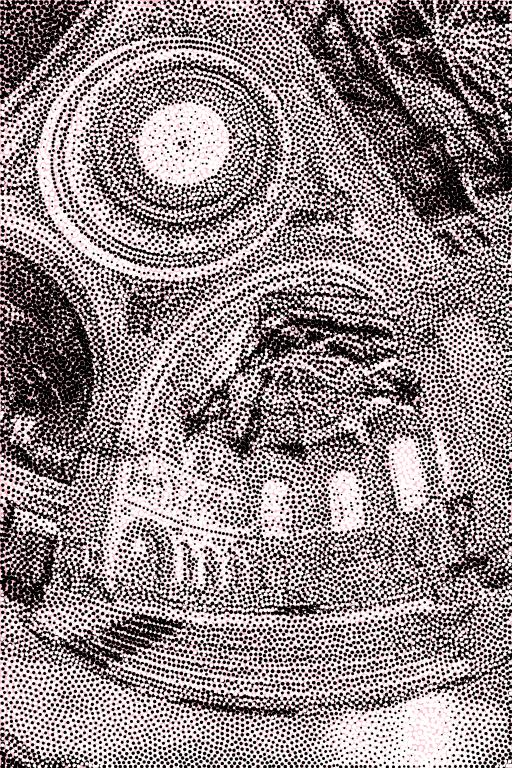
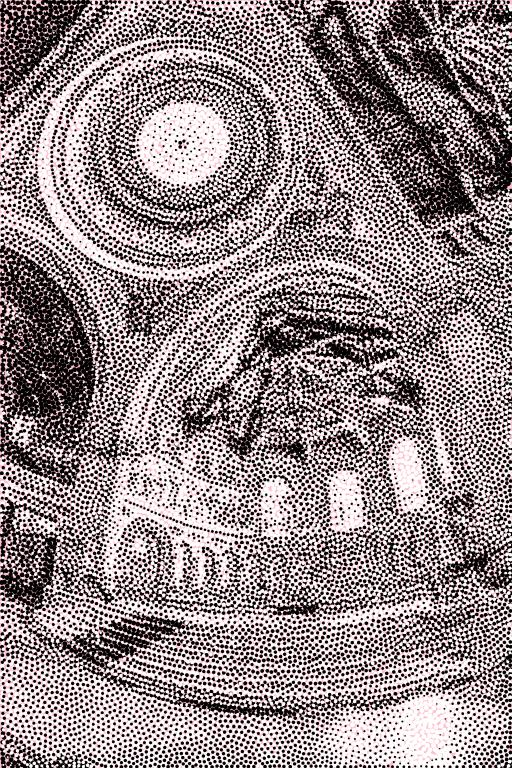
get gap mask

diff --git a/MLBG/src/mlbg.cpp b/MLBG/src/mlbg.cpp
@@ -151,6 +151,78 @@ std::vector<Stipple> MLBG::stippling(Canvas *m_canvas, MLBG *m_mlbg, bool isVoro
     return total_stipples;
 }
 
+std::vector<Stipple> MLBG::filling(std::vector<Stipple> foregroundStipples, Canvas *m_canvas, MLBG *m_mlbg)
+{
+    std::cout << "================= Begin filling ==================" << std::endl;
+
+    for (int i = 0; i < foregroundStipples.size(); i++) {
+        foregroundStipples[i].color = Qt::white;
+    }
+
+    QImage newImage = m_mlbg->paintBG(m_canvas, foregroundStipples, 0);
+
+    // stippling iteration
+    int num_split = 0;
+    int num_merge = 0;
+//    for (int i = 0; i < settings.max_iteration; i++)
+//    {
+//        draw d;
+//        std::cout << "Iteration: " << i << std::endl;
+
+//        // cells
+//        std::vector<Cell> voronoi_cells = generate_voronoi_cells(foregroundStipples, d, false);
+//        std::cout << "Current number of points: " << foregroundStipples.size() << std::endl;
+
+//        // current hysteresis
+//        float hysteresis = settings.hysteresis + i * settings.hysteresis_delta;
+
+//        foregroundStipples.clear();
+//        for (const auto &cell : voronoi_cells)
+//        {
+//            float point_size = 1.0f;
+
+//            if (cell.total_density < calculate_lower_density_bound(point_size, hysteresis) || cell.area == 0.0f) {// merge
+//                num_merge++;
+//                d.drawPoints(cell.centroid.x() * m_size.width(), cell.centroid.y() * m_size.height(), Qt::black);
+//                d.drawX(cell.centroid.x() * m_size.width(), cell.centroid.y() * m_size.height(), Qt::red);
+//            }
+//            else if (cell.total_density < calculate_upper_density_bound(point_size, hysteresis)) {// keep
+//                stipples.push_back({cell.centroid, point_size, Qt::black});
+//                d.drawPoints(cell.centroid.x() * m_size.width(), cell.centroid.y() * m_size.height(), Qt::black);
+//            }
+//            else // split
+//            {
+//                num_split++;
+//                split_cell(foregroundStipples, cell, point_size, Qt::red, false);
+//                d.drawPoints(cell.centroid.x() * m_size.width(), cell.centroid.y() * m_size.height(), Qt::black);
+//                auto last = stipples.back();
+//                auto secondLast = stipples[stipples.size() - 2];
+//                d.drawPoints(last.pos.x() * m_size.width(), last.pos.y() * m_size.height(), Qt::green);
+//                d.drawPoints(secondLast.pos.x() * m_size.width(), secondLast.pos.y() * m_size.height(), Qt::green);
+//            }
+//        }
+
+//        if (num_split == 0 && num_merge == 0)
+//            break;
+//        num_split = 0;
+//        num_merge = 0;
+
+//        if (isVoronoi == true) {
+//            d.endPaint(i, m_canvas);
+//        }
+//        else
+//        {
+//            m_wlbg->paint(m_canvas, stipples, i);
+//        }
+
+
+//        // Handle other events, allowing GUI updates
+//        QCoreApplication::processEvents();
+//    }
+
+    return foregroundStipples;
+}
+
 
 std::vector<Cell> MLBG::generate_voronoi_cells(std::vector<Stipple> points, std::vector<int> &indices, draw &d, bool inverse)
 {

diff --git a/MLBG/src/wlbg.cpp b/MLBG/src/wlbg.cpp
@@ -125,15 +125,45 @@ void WLBG::paint(Canvas *m_canvas, std::vector<Stipple> points, int iteration)
 //    w.resize(1200, 1200);
 
     m_canvas->displayImage(image); // Update the canvas display
-//    emit m_canvas->imageUpdated(m_canvas, image);
-
-    // Now schedule the displayImage call on the main thread
-//    QMetaObject::invokeMethod(m_canvas, "displayImage", Qt::QueuedConnection,
-//                              Q_ARG(QImage, image));
-
 
     // Save the image
     image.save(filePath);
+}
+
+QImage WLBG::paintBG(Canvas *m_canvas, std::vector<Stipple> points, int iteration)
+{
+    std::cout << "Start Painting" << std::endl;
+    //    QSize imageSize(1200, 1000); // Set your desired image size
+    QString filePath = settings.output_path; // Set your desired file path
+
+    QImage image(m_size,  QImage::Format_RGBX8888);
+    image.fill(Qt::black); // Fill the background
+
+    QPainter painter(&image);
+    painter.setRenderHint(QPainter::Antialiasing); // Optional: for smoother edges
+    painter.setPen(Qt::NoPen); // No border
+
+    // Draw each stipple
+    // #pragma omp parallel for
+    for (const auto& stipple : points)
+    {
+        QPointF center(stipple.pos.x() * m_size.width(), stipple.pos.y() * m_size.height());
+        qreal radius = stipple.size / 2.0; // Assuming size is the diameter
+
+        // Set brush and pen for this stipple
+        painter.setBrush(QBrush(stipple.color));
+
+        // Draw the stipple
+        painter.drawEllipse(center, radius, radius);
+    }
+
+    //    w.resize(1200, 1200);
+
+    m_canvas->displayImage(image); // Update the canvas display
+
+    // Save the image
+//    image.save(filePath);
+    return image;
 }
 
 // Index Map

diff --git a/MLBG/src/mainwindow.cpp b/MLBG/src/mainwindow.cpp
@@ -65,6 +65,7 @@ MainWindow::MainWindow()
     addPushButton(layout, "Draw Voronoi Diagram", &MainWindow::onDrawVoronoiButtonClick);
     addPushButton(layout, "Multiple Stippling", &MainWindow::onMLBGButtonClick);
 //    addPushButton(layout, "Save Image", &MainWindow::onSaveButtonClick);
+    addPushButton(layout, "Fill Background", &MainWindow::onFillButtonClick);
 }
 
 
@@ -174,6 +175,13 @@ void  MainWindow::onMLBGButtonClick() {
     std::vector<Stipple> stipples = m_mlbg.stippling(m_canvas, &m_mlbg, false);
 
 }
+
+void MainWindow::onFillButtonClick() {
+    MLBG m_mlbg = MLBG();
+    std::vector<Stipple> stipples = m_mlbg.stippling(m_canvas, &m_mlbg, false);
+    std::vector<Stipple> newstipples = m_mlbg.filling(stipples, m_canvas, &m_mlbg);
+}
+
 void MainWindow::onSaveButtonClick() {
     // Get new image path selected by user
     QString file = QFileDialog::getSaveFileName(this, tr("Save Image"), QDir::currentPath(), tr("Image Files (*.png *.jpg *.jpeg)"));

diff --git a/MLBG/src/wlbg.h b/MLBG/src/wlbg.h
@@ -71,6 +71,7 @@ public:
     WLBG();
     std::vector<Stipple> stippling(Canvas *m_canvas, WLBG *wlbg, bool isVoronoi);
     void paint(Canvas *m_canvas, std::vector<Stipple> points, int iteration);
+    QImage paintBG(Canvas *m_canvas, std::vector<Stipple> points, int iteration);
 
     // stipples
     // std::pair<std::vector<Stipple>, std::vector<Stipple> > init_stipples();

diff --git a/MLBG/src/mlbg.h b/MLBG/src/mlbg.h
@@ -2,6 +2,7 @@
 #define MLBG_H
 
 #include "src/wlbg.h"
+#include <unordered_map>
 
 class MLBG: public WLBG
 {
@@ -18,6 +19,7 @@ public:
     }
     void split_cell(std::vector<Stipple>& stipples, Cell cell, float point_size, Stipple stipple);
 
+    std::vector<Stipple> filling(std::vector<Stipple> foregroundStipples, Canvas *m_canvas, MLBG *m_mlbg);
 
 };
 

diff --git a/MLBG/src/mainwindow.h b/MLBG/src/mainwindow.h
@@ -40,4 +40,5 @@ private:
 
     void onStippleButtonClick();
     void onDrawVoronoiButtonClick();
+    void onFillButtonClick();
 };
